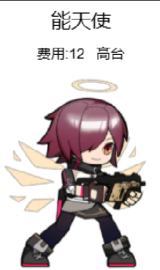
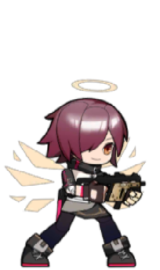
主要增加了卡片类

Changed region(s): [[0.0, 0.0, 1.0, 0.1185], [0.2188, 0.1481, 0.5312, 0.237], [0.5938, 0.1481, 0.7812, 0.237]]

diff --git a/Classes/Data/AllData.cpp b/Classes/Data/AllData.cpp
@@ -9,9 +9,8 @@ int BaseHP;
 int allenemynum;
 int killednum = 0;
 
-std::vector<std::string> Cards = { "Exusiai" };
-std::vector<Sprite*> CardsSpr;
-std::vector<int> CardsExpenses = { 12 };
+std::vector<int> CardsNum = { 0 };
+std::vector<Card*> Cards;
 
 std::vector<Enemy*> AllEnemy;
 std::vector<Operator*> AllOperator;

diff --git a/Classes/Logic/GameLogic.cpp b/Classes/Logic/GameLogic.cpp
@@ -51,7 +51,6 @@ void GameLogic::update(float update_time)
 					this->addChild(newenemy->AlphawormSprite);
 					this->addChild(newenemy->AlphawormBar);
 					this->addChild(newenemy->AlphawormBlood);
-					
 					break;
 				}
 				default:
